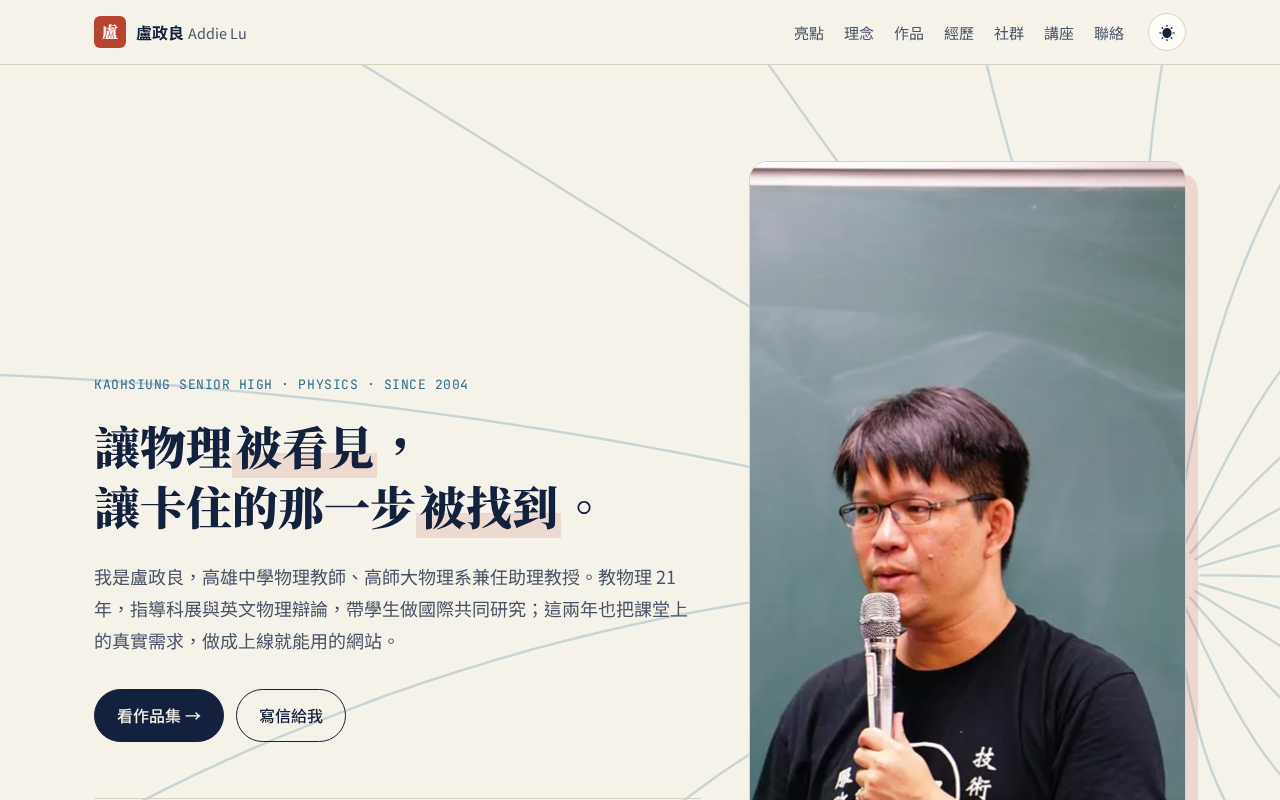
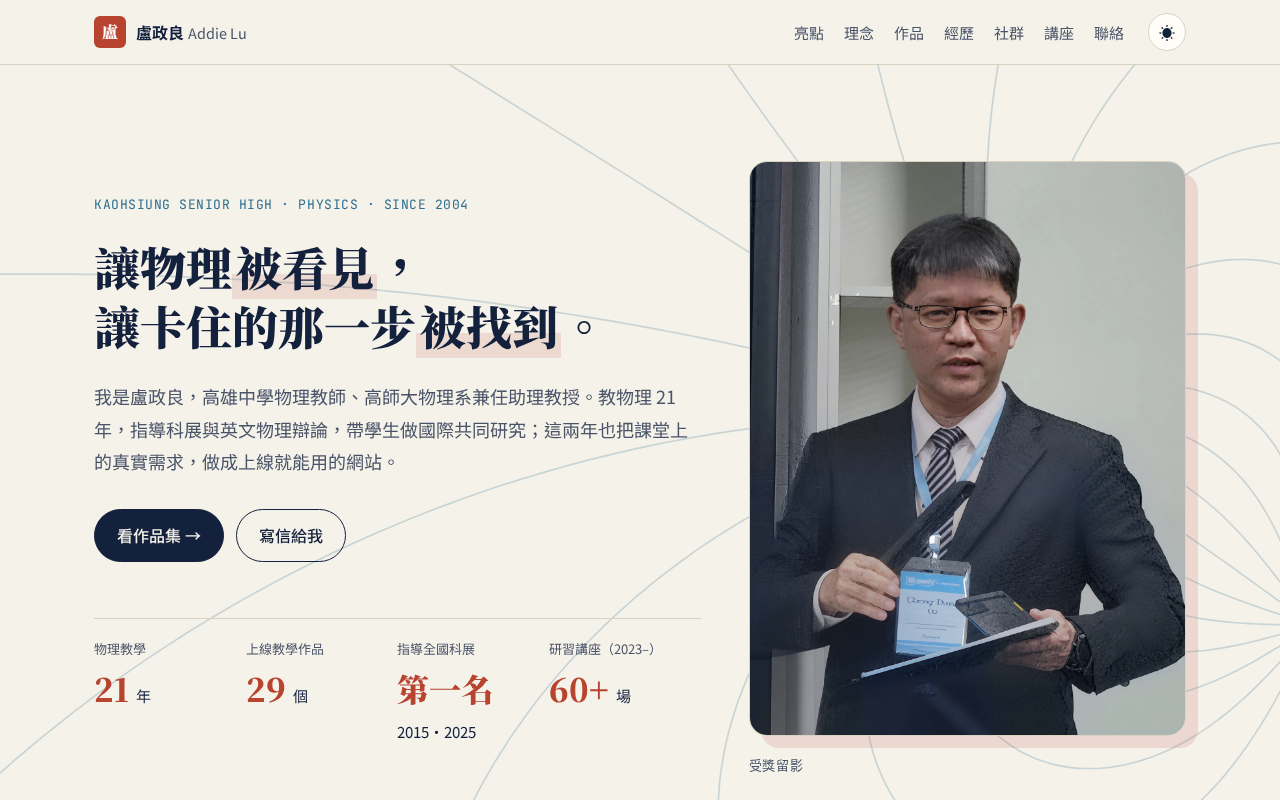
New hero portrait, YouTube link

diff --git a/index.html b/index.html
@@ -25,7 +25,7 @@
 <div><dt>指導全國科展</dt><dd><b>第一名</b> 2015・2025</dd></div>
 <div><dt>研習講座（2023–）</dt><dd><b>60+</b> 場</dd></div>
 </dl></div>
-<figure class="hero-photo"><img src="img/portrait.webp" width="1400" height="934" alt="盧政良老師手持麥克風在黑板前演講" fetchpriority="high"><figcaption class="mono">2024 · 研習分享</figcaption></figure>
+<figure class="hero-photo"><img src="img/portrait.webp" width="460" height="575" alt="盧政良老師身著西裝手持獎座" fetchpriority="high"><figcaption class="mono">受獎留影</figcaption></figure>
 </div></section>
 
 <section id="highlights" class="wrap sec"><header class="sh"><span class="mono num">01</span><h2>亮點</h2><p>六條主線，彼此串連。</p></header>
@@ -35,7 +35,7 @@
 <article class="card hl-card"><span class="glyph" aria-hidden="true">⊕</span><h3>國際共同研究 ICRP</h3><p>參與日本立命館高校主辦的 International Collaborative Research Project，帶雄中學生與熊本北高校等海外夥伴進行跨國研究；並帶隊參加臺灣國際科展。</p></article>
 <article class="card hl-card"><span class="glyph" aria-hidden="true">△</span><h3>探空氣球立方衛星</h3><p>2026 年帶領雄中團隊加入「南方五校－成大太空課程實作計畫」，讓高中生走一次 MDR→FRR 的太空任務流程，2027 年 1 月放球。</p></article>
 <article class="card hl-card"><span class="glyph" aria-hidden="true">∇</span><h3>AI 走進教學現場</h3><p>2023 年起在各校與研討會分享 AI 輔助探究、批改與評量；2025 年於 KSASF 國際科學營分享 AI‑Assisted Physics Instructional Design。用 AI 把教學需求做成網站。</p></article>
-<article class="card hl-card"><span class="glyph" aria-hidden="true">▶</span><h3>教育影片製作</h3><p>製作 AI 教育與物理解題短影音：AI 進教室的教師須知、學生資料倫理、分科測驗物理詳解。<span class="tbc">【待確認：頻道名稱與連結】</span></p></article>
+<article class="card hl-card"><span class="glyph" aria-hidden="true">▶</span><h3>教育影片製作</h3><p>製作 AI 教育與物理解題短影音：AI 進教室的教師須知、學生資料倫理、分科測驗物理詳解。<a class="go" href="https://www.youtube.com/@luchengliang" target="_blank" rel="noopener">YouTube「高雄中學 盧政良」→</a></p></article>
 </div>
 <figure class="wide-photo"><img src="img/workshop-pgsh.webp" width="1100" height="825" loading="lazy" alt="屏東女中「國際科學素養融入課程設計」研習現場"><figcaption>2025.4 屏東女中「國際科學素養融入課程設計」研習</figcaption></figure>
 </section>

diff --git a/style.css b/style.css
@@ -60,7 +60,7 @@ h1{font-size:clamp(34px,5.6vw,64px);font-weight:900;max-width:15em}
 @media(max-width:640px){nav{display:none}.brand{margin-right:auto}.grid4,.grid2,.works{grid-template-columns:1fr}.stats{grid-template-columns:1fr 1fr}.hero-in{padding:64px 20px 48px}.sec{padding:64px 20px}.timeline li{grid-template-columns:1fr;gap:2px}.lede{font-size:16px}h1{font-size:30px}.kicker{font-size:11px}}
 @media(prefers-reduced-motion:reduce){*{transition:none!important;scroll-behavior:auto!important}}
 .hero-in{display:grid;grid-template-columns:1.25fr .9fr;gap:48px;align-items:center}
-.hero-photo{margin:0;position:relative}.hero-photo img{width:100%;aspect-ratio:4/5;object-fit:cover;object-position:52% 40%;border-radius:18px;border:1px solid var(--line);box-shadow:12px 12px 0 var(--hl)}
+.hero-photo{margin:0;position:relative}.hero-photo img{width:100%;aspect-ratio:4/5;object-fit:cover;object-position:50% 22%;border-radius:18px;border:1px solid var(--line);box-shadow:12px 12px 0 var(--hl)}
 figure figcaption{font-size:13px;color:var(--ink2);margin-top:10px}
 .hl-grid{gap:18px}.hl-card b{color:var(--acc);font-weight:700}
 .tbc{display:inline-block;background:#FFF1B8;color:#5A4600;font-size:12px;padding:0 6px;border-radius:4px}
